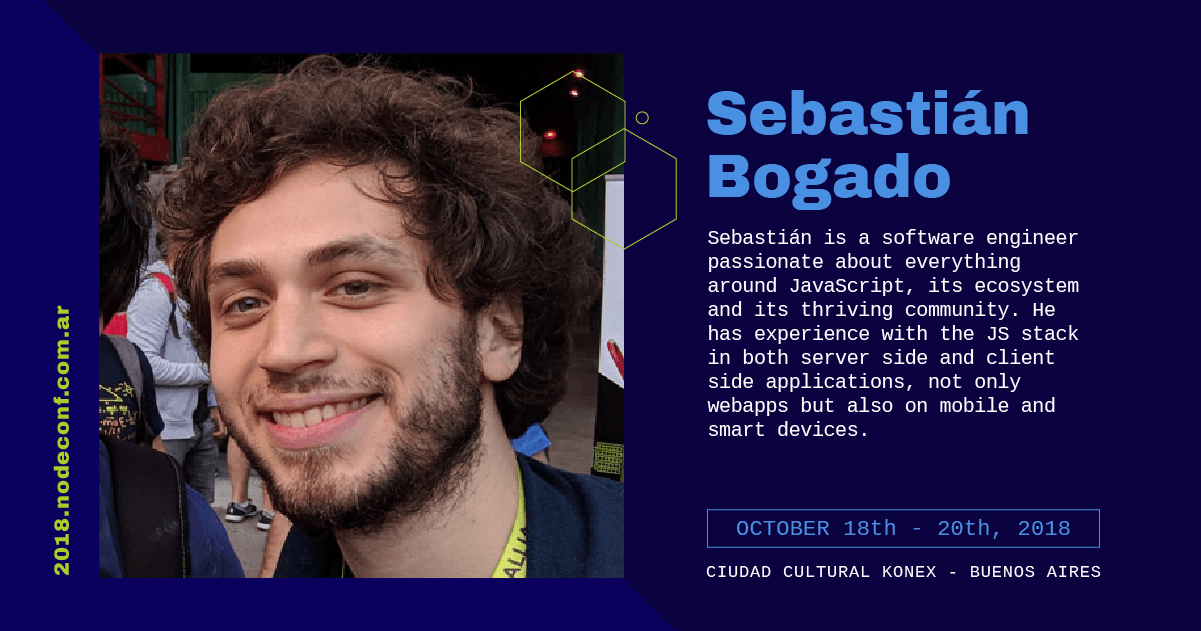
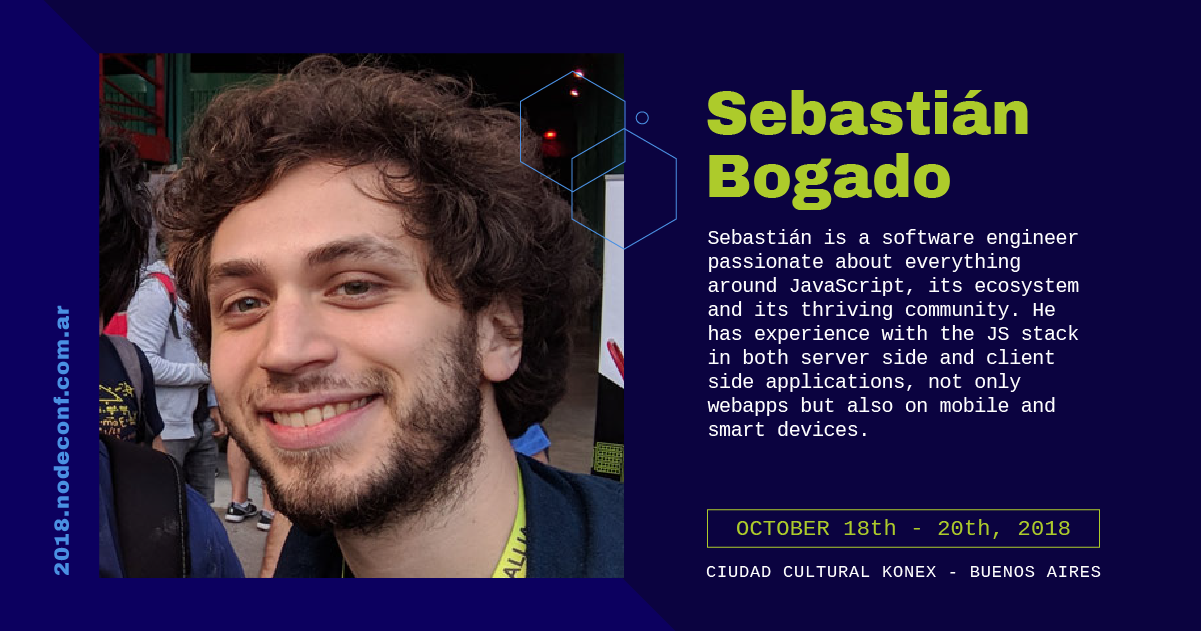
fix Sebastian Bogado

diff --git a/speakers.html b/speakers.html
@@ -373,6 +373,21 @@
             <p class="f7 ma0 white">Software Architect @ sovanta AG</p>
           </div>
         </a>
+        <a href="sebastian-bogado.html" class="profile w-50-ns w-25-l w-100 ph3 pv2 link">
+          <div class="profile-img">
+            <p class="type green">talk</p>
+            <span class="on">
+              <img src="assets/images/speakers/bogado-on.jpg" class="w-100 v-mid" alt="Sebastian Bogado">
+            </span>
+            <span class="off">
+              <img data-aload="assets/images/speakers/bogado-off.jpg" class="w-100 v-mid" alt="Sebastian Bogado">
+            </span>
+          </div>
+          <div class="pv3">
+            <h5 class="f3 ma0 pb2 green">Sebastian Bogado</h5>
+            <p class="f7 ma0 white">Global Leader in Customer Experience Management @ Medallia</p>
+          </div>
+        </a>
         <a href="diego-paez-martin-acosta.html" class="profile w-50-ns w-25-l w-100 ph3 pv2 link">
           <div class="profile-img">
             <p class="type light-blue">workshop</p>
@@ -461,66 +476,6 @@
           <div class="pv3">
             <h5 class="f3 ma0 pb2 light-blue">Mariano Vazquez</h5>
             <p class="f7 ma0 white">Tech Lead @ Mulesoft</p>
-          </div>
-        </a>
-        <a href="sebastian-bogado.html" class="profile w-50-ns w-25-l w-100 ph3 pv2 link">
-          <div class="profile-img">
-            <p class="type light-blue">workshop</p>
-            <span class="on">
-              <img src="assets/images/speakers/bogado-on.jpg" class="w-100 v-mid" alt="Sebastian Bogado">
-            </span>
-            <span class="off">
-              <img data-aload="assets/images/speakers/bogado-off.jpg" class="w-100 v-mid" alt="Sebastian Bogado">
-            </span>
-          </div>
-          <div class="pv3">
-            <h5 class="f3 ma0 pb2 light-blue">Sebastian Bogado</h5>
-            <p class="f7 ma0 white">Global Leader in Customer Experience Management @ Medallia</p>
-          </div>
-        </a>
-        <a href="alan-accurso-sebastian-urbina.html" class="profile w-50-ns w-25-l w-100 ph3 pv2 link">
-          <div class="profile-img">
-            <p class="type light-blue">workshop</p>
-            <span class="on">
-              <img src="assets/images/speakers/alanseba-on.gif" class="w-100 v-mid" alt="Alan Accurso and Sebatian Urbina">
-            </span>
-            <span class="off">
-              <img data-aload="assets/images/speakers/alanseba-off.gif" class="w-100 v-mid" alt="Alan Accurso and Sebatian Urbina">
-            </span>
-          </div>
-          <div class="pv3">
-            <h5 class="f3 ma0 pb2 light-blue">Alan Accurso & Sebatian Urbina</h5>
-            <p class="f7 ma0 white">Frontend Engineer @ Medallia</p>
-          </div>
-        </a>
-        <a href="pablo-terradillos.html" class="profile w-50-ns w-25-l w-100 ph3 pv2 link">
-          <div class="profile-img">
-            <p class="type light-blue">workshop</p>
-            <span class="on">
-              <img src="assets/images/speakers/terradillos-on.jpg" class="w-100 v-mid" alt="Pablo Terradillos">
-            </span>
-            <span class="off">
-              <img data-aload="assets/images/speakers/terradillos-off.jpg" class="w-100 v-mid" alt="Pablo Terradillos">
-            </span>
-          </div>
-          <div class="pv3">
-            <h5 class="f3 ma0 pb2 light-blue">Pablo Terradillos</h5>
-            <p class="f7 ma0 white">Applications Engineer @ Auth0</p>
-          </div>
-        </a>
-        <a href="leonardo-pittelli.html" class="profile w-50-ns w-25-l w-100 ph3 pv2 link">
-          <div class="profile-img">
-            <p class="type light-blue">workshop</p>
-            <span class="on">
-              <img src="assets/images/speakers/pittelli-on.jpg" class="w-100 v-mid" alt="Leonardo Pittelli">
-            </span>
-            <span class="off">
-              <img data-aload="assets/images/speakers/pittelli-off.jpg" class="w-100 v-mid" alt="Leonardo Pittelli">
-            </span>
-          </div>
-          <div class="pv3">
-            <h5 class="f3 ma0 pb2 light-blue">Leonardo Pittelli</h5>
-            <p class="f7 ma0 white">Web Chapter Lead @ OLX Group</p>
           </div>
         </a>
       </div>

diff --git a/sebastian-bogado.html b/sebastian-bogado.html
@@ -122,21 +122,21 @@
                             <div class="picture">
                                 <img src="assets/images/speakers/bogado-on.jpg" class="w-100 v-mid" alt="Sebastián Bogado">
                                 <a href="https://github.com/SebastianBogado" target="_black" rel="noopener" class="dim absolute top-0 left-0">
-                                    <img src="assets/images/twitter-triangle-blue.svg" class="v-btm" alt="go to twitter">
+                                    <img src="assets/images/twitter-triangle.svg" class="v-btm" alt="go to twitter">
                                 </a>
                                 <div class="name">
-                                    <h1 class="f1 light-blue ma0">Sebastián Bogado</h1>
-                                    <p class="f6 light-blue mt2 mb0">Global Leader in Customer Experience Management @ Medallia</p>
+                                    <h1 class="f1 green ma0">Sebastián Bogado</h1>
+                                    <p class="f6 green mt2 mb0">Global Leader in Customer Experience Management @ Medallia</p>
                                 </div>
                             </div>
                         </div>
                         <div class="w-two-thirds-ns w-100">
                             <div class="ph4 pv3">
-                                <p class="f7 ttu blue">bio</p>
+                                <p class="f7 ttu green">bio</p>
                                 <p class="f6 dark-blue">Sebastián is a software engineer passionate about everything around JavaScript, its ecosystem and its thriving community. He has experience with the JS stack in both server side and client side applications, not only webapps but also on mobile and smart devices. He currently works at Medallia, the global leader in Customer Experience Management.</p>
                             </div>
                             <div class="ph4 pv3">
-                                <p class="f7 ttu blue">details about the workshop</p>
+                                <p class="f7 ttu green">details about the talk</p>
                                 <h4 class="ma0">Building your ideal codebase: monorepos & multirepos living in harmony</h4>
                                     <p class="f7">Abstract: Our experience finding the balance between applications, teams, packages and versioning using the best of monorepos and multirepos approach
                                         Long description: In popular libraries like Babel and Jest, all their code live in the same repository and from there, many independent packages are published. Those repositories are called monorepos and are usually presented against multirepos (one repo per publishable package). In this talk we will share our experience with a large application suite where monorepos live in a multirepos ecosystem. We will go through the pros and cons of both approaches and the requirements our ideal codebase must meet.</p>
